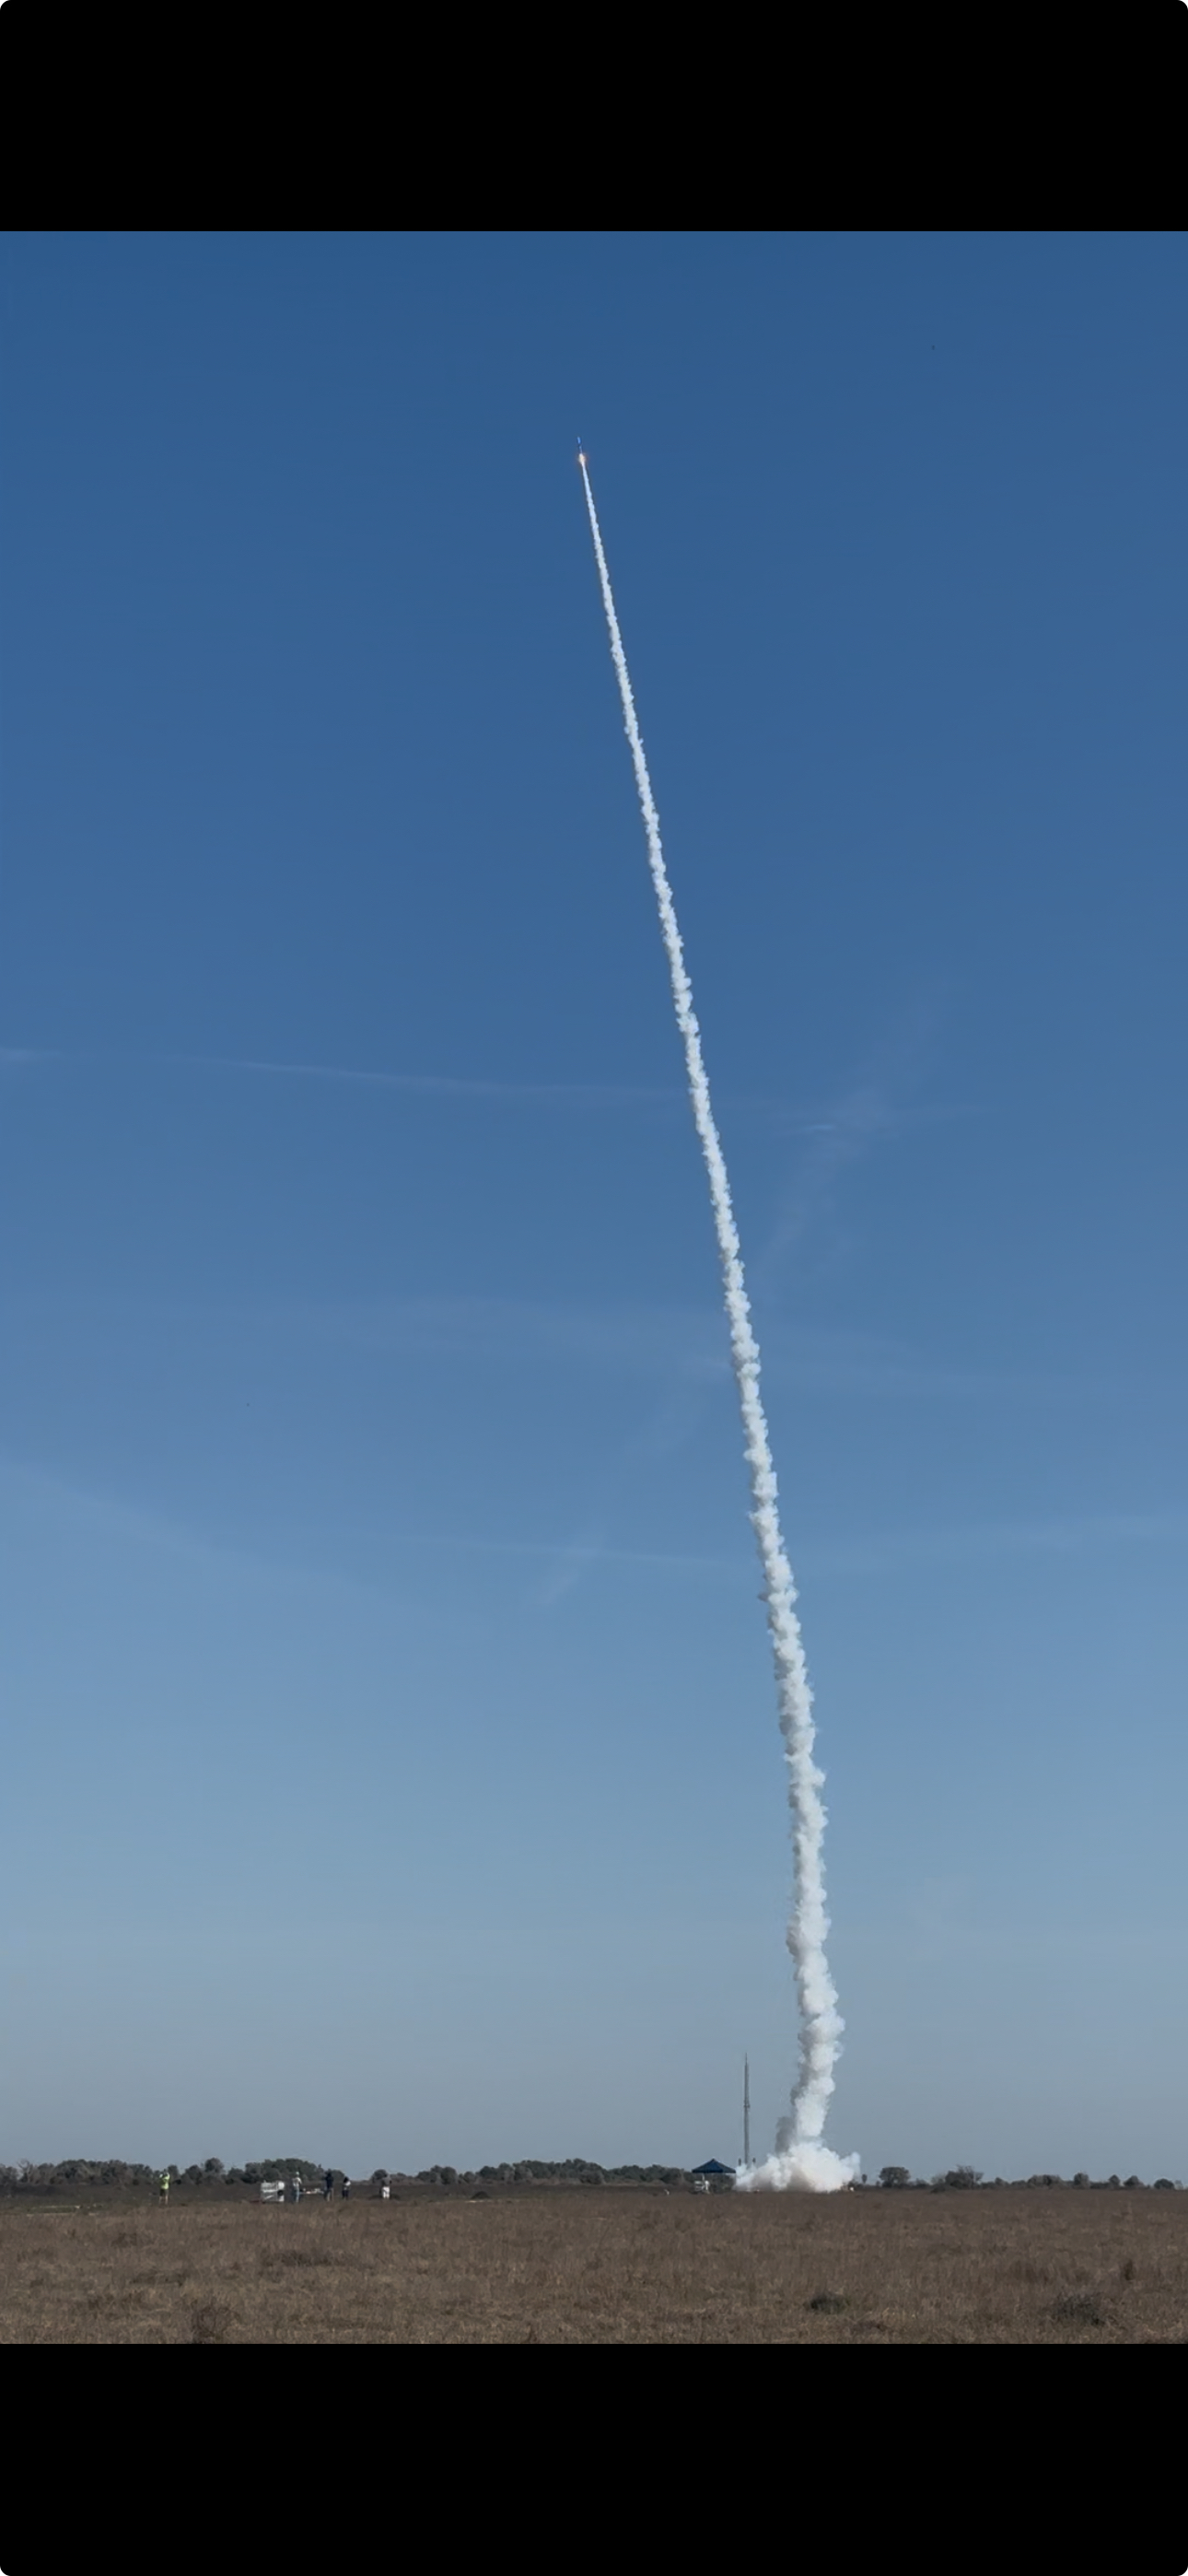
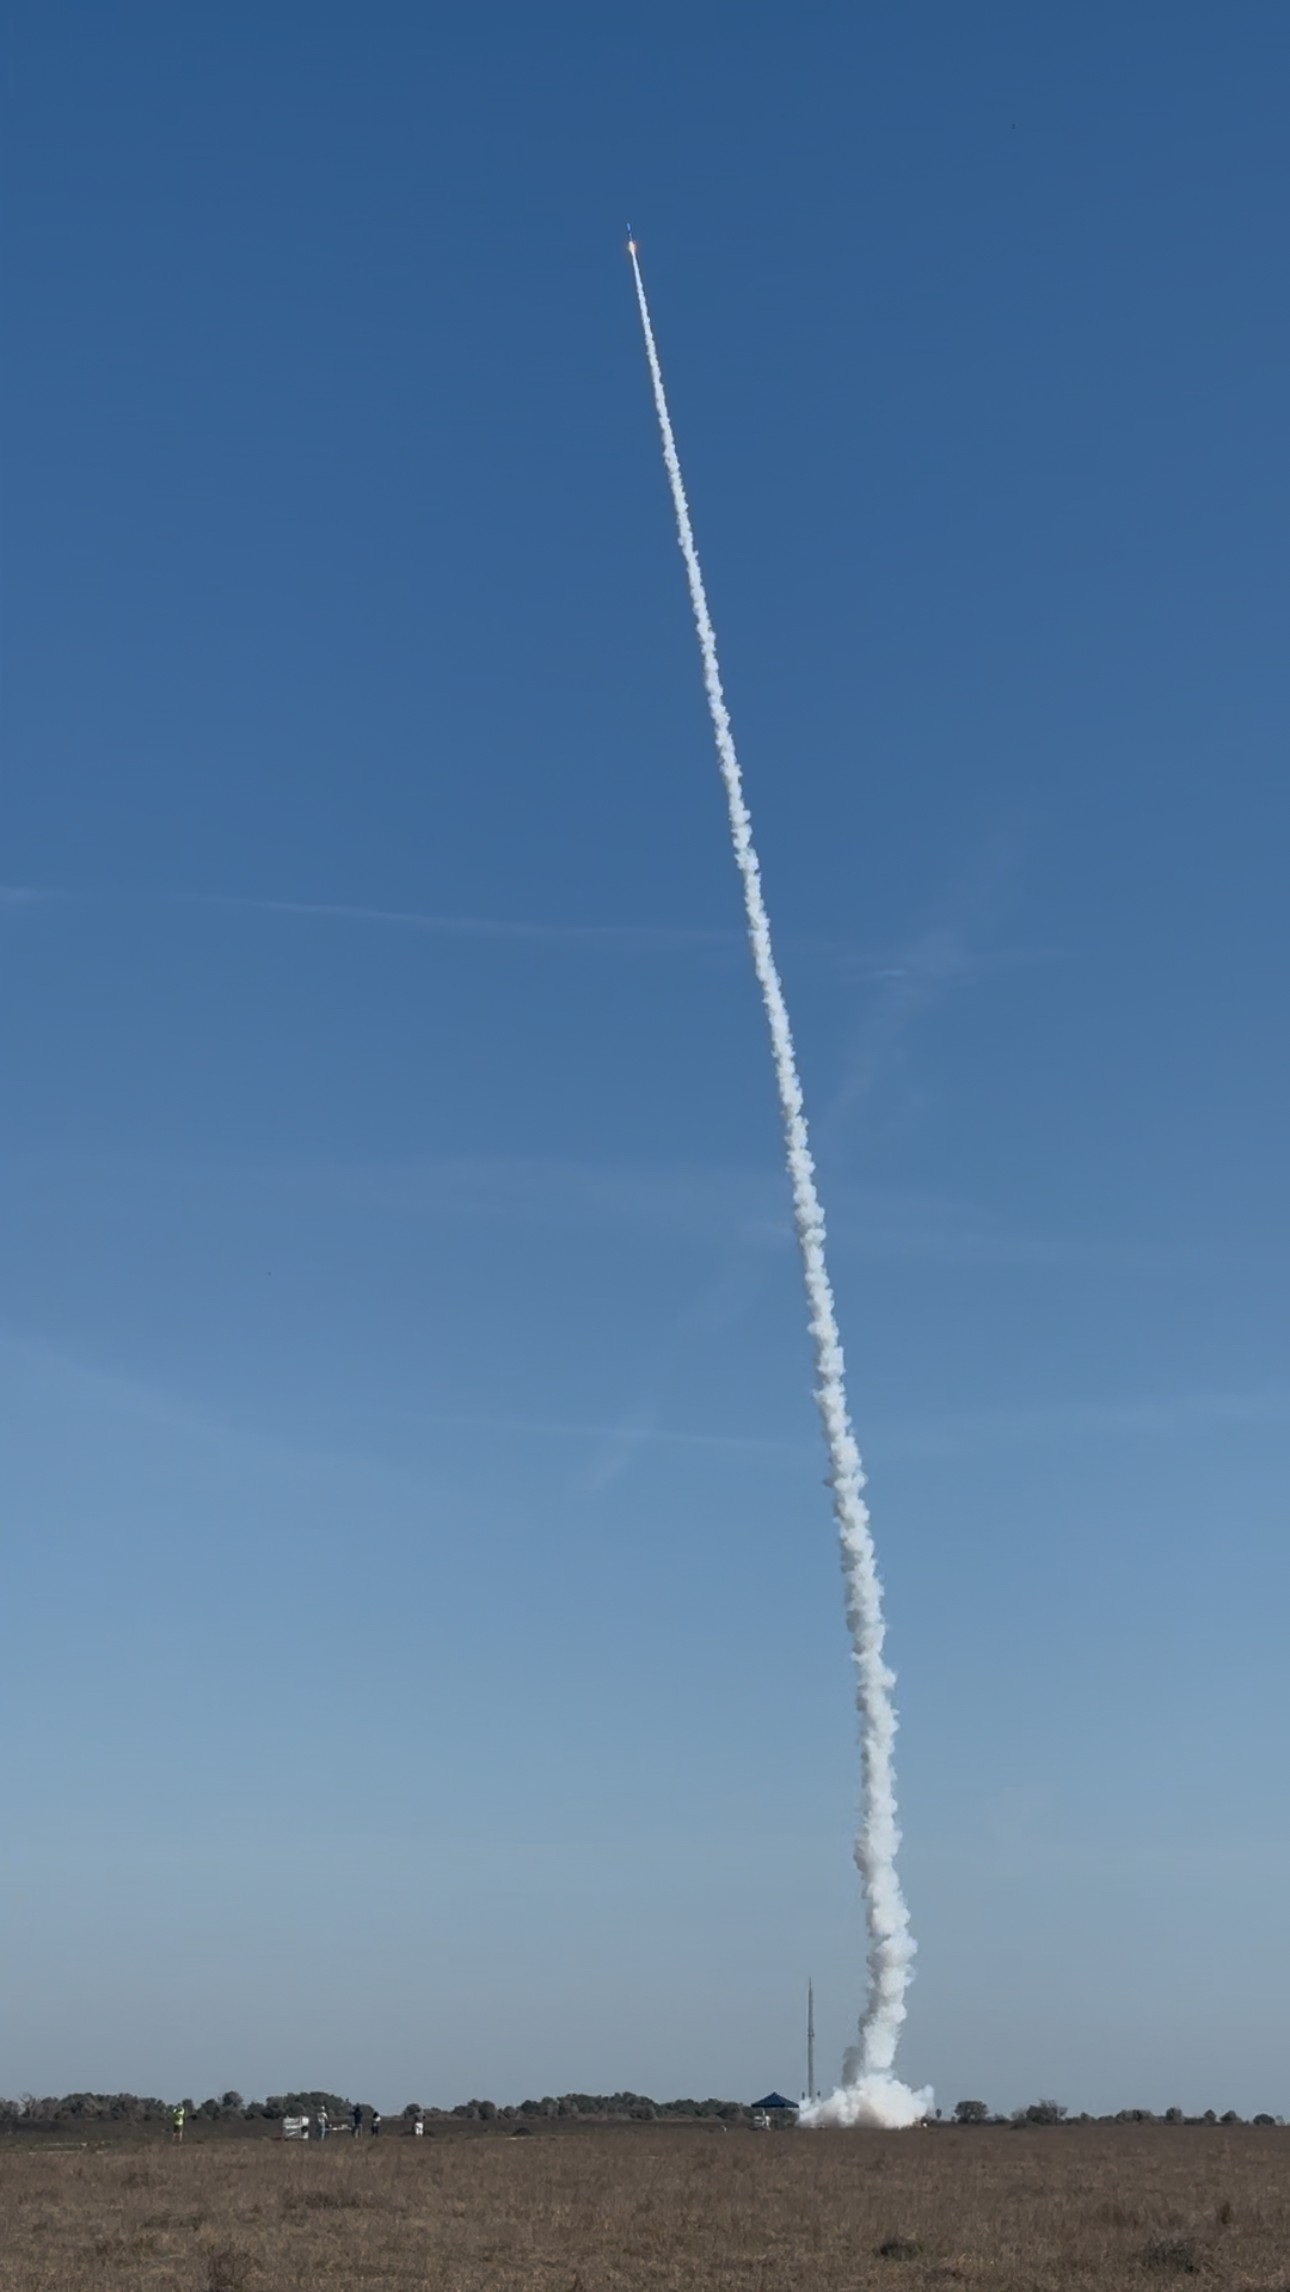
Simplify CAPE photo layout and crop rocket image
- Crop RocketLaunch.jpg to remove 251px top and 253px bottom black bars (1290x2796 -> 1290x2292)
- Flatten capePhotos to simple flex row, uniform 200px height, object-fit:contain
- Remove complex nested grid and PCB rotation CSS

Changed region(s): [[0.0, 0.4956, 1.0, 1.0], [0.0, 0.0, 1.0, 0.1239], [0.4961, 0.1239, 0.6202, 0.4956]]

diff --git a/WebPortfolioV2/Portfolio.css b/WebPortfolioV2/Portfolio.css
@@ -218,71 +218,23 @@ nav .right img {
     line-height: 1.6;
 }
 
-/* Photo grid: rocket left (tall), PCB + assembly right */
 .capePhotos {
     display: flex;
     flex-direction: row;
+    flex-wrap: wrap;
+    justify-content: center;
     gap: 15px;
-    align-items: flex-start;
-    width: 100%;
-    max-width: 1000px;
 }
 
-.capePhotos .rocketImg {
+.capePhotos img {
+    height: 200px;
     width: auto;
-    max-width: 38%;
-    height: auto;
+    object-fit: contain;
     border: 3px solid var(--light-link-color);
     border-radius: 10px;
 }
 
-.capeRightColumn {
-    flex: 1;
-    display: flex;
-    flex-direction: column;
-    gap: 15px;
-    min-width: 0;
-}
-
-/* PCB rotated 90deg to landscape — math: 551x707 natural size.
-   padding-top = (551/707)*100 = 77.9% gives wrapper same aspect as rotated image.
-   img width = (551/707)*100% so that after rotation the image fills the box exactly. */
-.pcbWrapper {
-    position: relative;
-    width: 100%;
-    padding-top: 77.9%;
-    overflow: hidden;
-    border: 3px solid var(--light-link-color);
-    border-radius: 10px;
-}
-
-.pcbWrapper img {
-    position: absolute;
-    top: 50%;
-    left: 50%;
-    width: 77.9%;
-    height: auto;
-    transform: translate(-50%, -50%) rotate(90deg);
-}
-
-.capeAssemblyRow {
-    display: flex;
-    flex-direction: row;
-    gap: 15px;
-}
-
-.capeAssemblyRow img {
-    flex: 1;
-    min-width: 0;
-    width: 100%;
-    height: auto;
-    border: 3px solid var(--light-link-color);
-    border-radius: 10px;
-}
-
-.dark .capePhotos .rocketImg { border-color: var(--dark-link-color); }
-.dark .pcbWrapper { border-color: var(--dark-link-color); }
-.dark .capeAssemblyRow img { border-color: var(--dark-link-color); }
+.dark .capePhotos img { border-color: var(--dark-link-color); }
 
 
 /* SECTION 3: RESUME */

diff --git a/WebPortfolioV2/Portfolio.html b/WebPortfolioV2/Portfolio.html
@@ -106,16 +106,10 @@
                             to demonstrate over-the-air communication with the payload.
                         </p>
                         <div class="capePhotos">
-                            <img class="rocketImg" src="PhotosAndVideos/RocketLaunch.jpg" alt="Rocket launch using CAPE ground station">
-                            <div class="capeRightColumn">
-                                <div class="pcbWrapper">
-                                    <img src="PhotosAndVideos/CapeEsgPcb.png" alt="CAPE ESG PCB design">
-                                </div>
-                                <div class="capeAssemblyRow">
-                                    <img src="PhotosAndVideos/GroundStationHousing.png" alt="Ground station housing CAD">
-                                    <img src="PhotosAndVideos/GroundStationAssembly.png" alt="Ground station full assembly CAD">
-                                </div>
-                            </div>
+                            <img src="PhotosAndVideos/RocketLaunch.jpg" alt="Rocket launch using CAPE ground station">
+                            <img src="PhotosAndVideos/CapeEsgPcb.png" alt="CAPE ESG PCB design">
+                            <img src="PhotosAndVideos/GroundStationHousing.png" alt="Ground station housing CAD">
+                            <img src="PhotosAndVideos/GroundStationAssembly.png" alt="Ground station full assembly CAD">
                         </div>
                     </div>
                 </div>